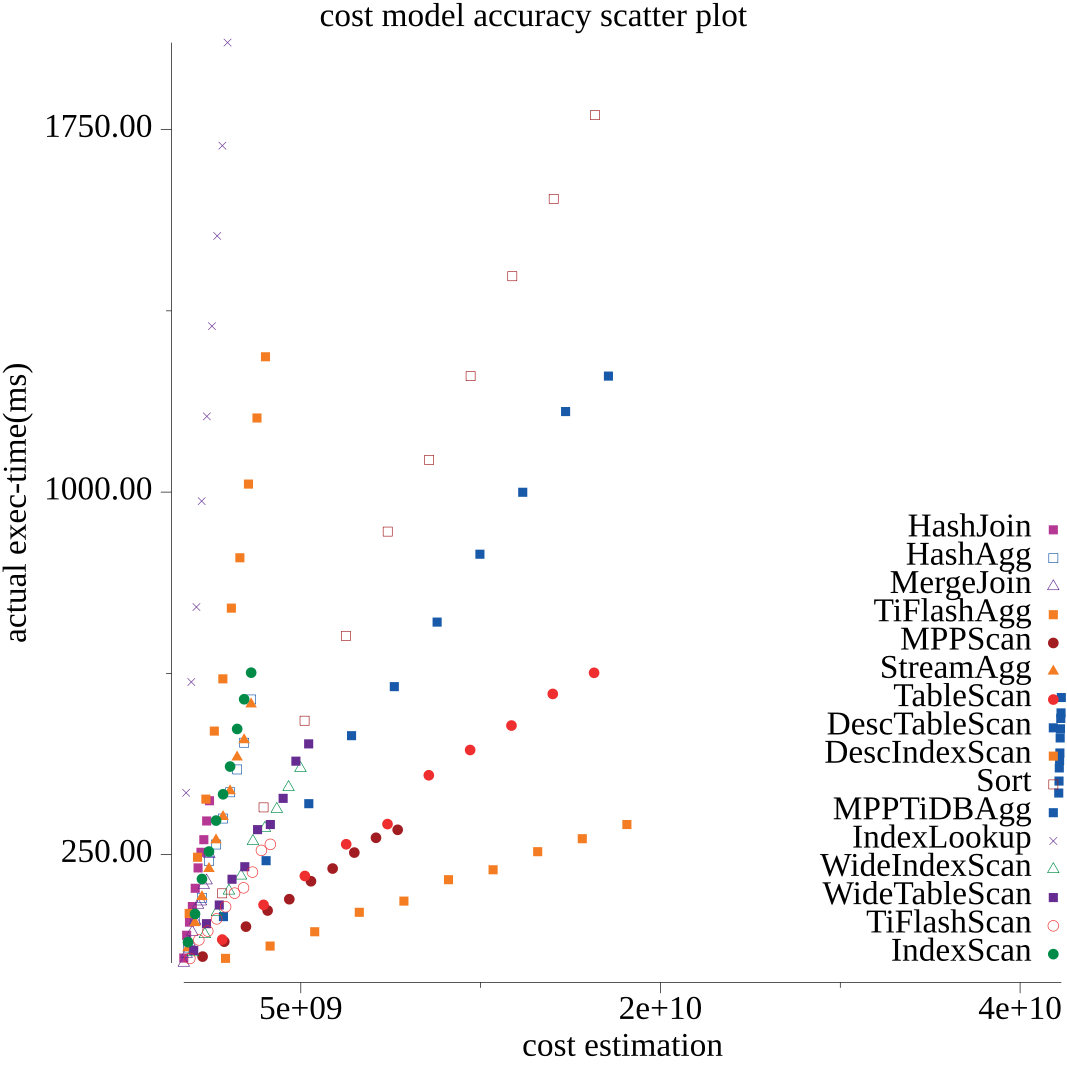
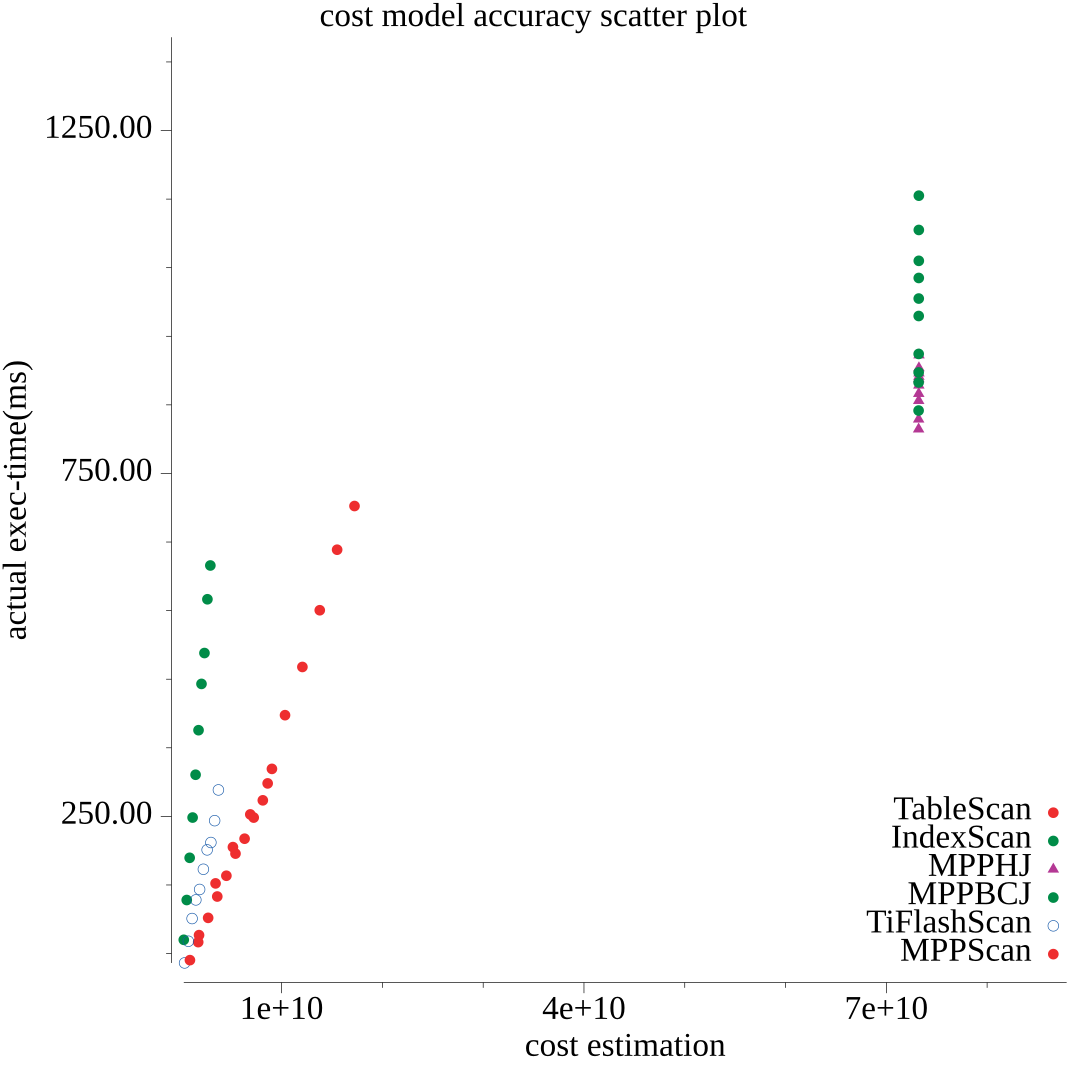
fixup

diff --git a/cost/eval_synthetic.go b/cost/eval_synthetic.go
@@ -65,27 +65,27 @@ func genSyntheticEvalQueries(ins tidb.Instance, db string, n int) Queries {
 
 	// TiKV Plans
 	qs = append(qs, genSyntheticEvalTableScan(ins, getSyntheticScale("TableScan"), n)...)
-	qs = append(qs, genSyntheticEvalDescTableScan(ins, getSyntheticScale("DescTableScan"), n)...)
-	qs = append(qs, genSyntheticEvalWideTableScan(ins, getSyntheticScale("WideTableScan"), n)...)
+	//qs = append(qs, genSyntheticEvalDescTableScan(ins, getSyntheticScale("DescTableScan"), n)...)
+	//qs = append(qs, genSyntheticEvalWideTableScan(ins, getSyntheticScale("WideTableScan"), n)...)
 	qs = append(qs, genSyntheticEvalIndexScan(ins, getSyntheticScale("IndexScan"), n)...)
-	qs = append(qs, genSyntheticEvalDescIndexScan(ins, getSyntheticScale("DescIndexScan"), n)...)
-	qs = append(qs, genSyntheticEvalWideIndexScan(ins, getSyntheticScale("WideIndexScan"), n)...)
-	qs = append(qs, genSyntheticEvalSort(ins, getSyntheticScale("Sort"), n)...)
-	qs = append(qs, genSyntheticEvalStreamAgg(ins, getSyntheticScale("StreamAgg"), n)...)
-	qs = append(qs, genSyntheticEvalHashAgg(ins, getSyntheticScale("HashAgg"), n)...)
-	qs = append(qs, genSyntheticEvalHashJoin(ins, getSyntheticScale("HashJoin"), n)...)
-	qs = append(qs, genSyntheticEvalMergeJoin(ins, getSyntheticScale("MergeJoin"), n)...)
-	qs = append(qs, genSyntheticEvalIndexLookup(ins, getSyntheticScale("IndexLookup"), n)...)
-	qs = append(qs, genSyntheticEvalIndexJoin(ins, getSyntheticScale("IndexJoin"), n)...)
+	//qs = append(qs, genSyntheticEvalDescIndexScan(ins, getSyntheticScale("DescIndexScan"), n)...)
+	//qs = append(qs, genSyntheticEvalWideIndexScan(ins, getSyntheticScale("WideIndexScan"), n)...)
+	//qs = append(qs, genSyntheticEvalSort(ins, getSyntheticScale("Sort"), n)...)
+	//qs = append(qs, genSyntheticEvalStreamAgg(ins, getSyntheticScale("StreamAgg"), n)...)
+	//qs = append(qs, genSyntheticEvalHashAgg(ins, getSyntheticScale("HashAgg"), n)...)
+	//qs = append(qs, genSyntheticEvalHashJoin(ins, getSyntheticScale("HashJoin"), n)...)
+	//qs = append(qs, genSyntheticEvalMergeJoin(ins, getSyntheticScale("MergeJoin"), n)...)
+	//qs = append(qs, genSyntheticEvalIndexLookup(ins, getSyntheticScale("IndexLookup"), n)...)
+	//qs = append(qs, genSyntheticEvalIndexJoin(ins, getSyntheticScale("IndexJoin"), n)...)
 
 	// TiFlash & MPP Plans
 	qs = append(qs, genSyntheticEvalTiFlashScan(ins, getSyntheticScale("TiFlashScan"), n)...)
 	qs = append(qs, genSyntheticEvalMPPScan(ins, getSyntheticScale("MPPScan"), n)...)
-	qs = append(qs, genSyntheticEvalTiFlashAgg(ins, getSyntheticScale("TiFlashAgg"), n)...)
-	qs = append(qs, genSyntheticEvalMPPTiDBAgg(ins, getSyntheticScale("MPPTiDBAgg"), n)...)
+	//qs = append(qs, genSyntheticEvalTiFlashAgg(ins, getSyntheticScale("TiFlashAgg"), n)...)
+	//qs = append(qs, genSyntheticEvalMPPTiDBAgg(ins, getSyntheticScale("MPPTiDBAgg"), n)...)
 	//qs = append(qs, genSyntheticEvalMPP2PhaseAgg(ins, getSyntheticScale("MPP2PhaseAgg"), n)...)
-	//qs = append(qs, genSyntheticEvalMPPHJ(ins, getSyntheticScale("MPPHJ"), n)...)
-	//qs = append(qs, genSyntheticEvalMPPBCJ(ins, getSyntheticScale("MPPBCJ"), n)...)
+	qs = append(qs, genSyntheticEvalMPPHJ(ins, getSyntheticScale("MPPHJ"), n)...)
+	qs = append(qs, genSyntheticEvalMPPBCJ(ins, getSyntheticScale("MPPBCJ"), n)...)
 	return qs
 }
 

diff --git a/cost/draw.go b/cost/draw.go
@@ -2,6 +2,7 @@ package cost
 
 import (
 	"gonum.org/v1/plot/vg/draw"
+	"math"
 	"math/rand"
 	"strings"
 
@@ -30,6 +31,15 @@ func drawCostRecordsTo(r Records, f string) {
 	p.X.Label.TextStyle.Font.Size = fontSize
 	p.Y.Label.TextStyle.Font.Size = fontSize
 	p.Y.Tick.Label.Font.Size = fontSize
+
+	var maxX, maxY float64
+	for i := 0; i < r.Len(); i++ {
+		x, y := r.XY(i)
+		maxX = math.Max(maxX, x)
+		maxY = math.Max(maxY, y)
+	}
+	p.X.Max = maxX * 1.2
+	p.Y.Max = maxY * 1.2
 
 	labledRecords := make(map[string]Records)
 	for _, record := range r {

diff --git a/cost/costeval.go b/cost/costeval.go
@@ -33,7 +33,7 @@ func CostEval() {
 		//{"tpch1g", "tpch", "original", 2, 1, 2000},
 		//{"tpch1g", "tpch", "calibrated", 30, 2, 2000},
 		//{"synthetic", "synthetic", "original", 20, 2, 300},
-		{"synthetic", "synthetic", 2, 10, 3, 2000},
+		{"synthetic", "synthetic", 2, 10, 2, 2000},
 		//{"synthetic", "synthetic", "calibrating", 30, 3, 200},
 	}
 
